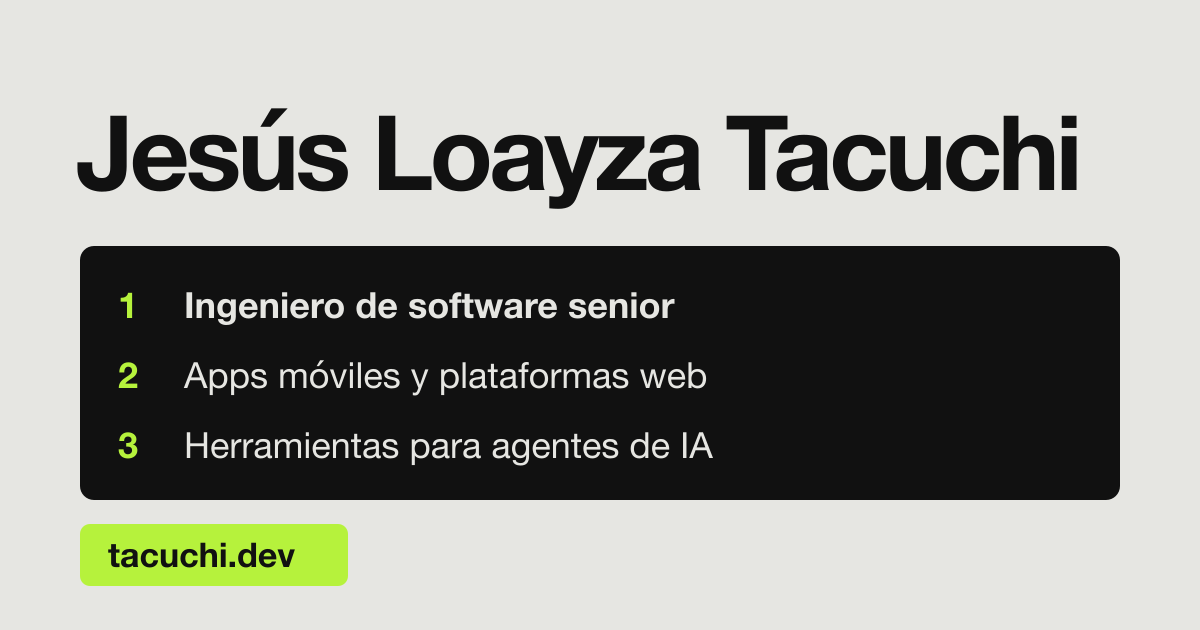
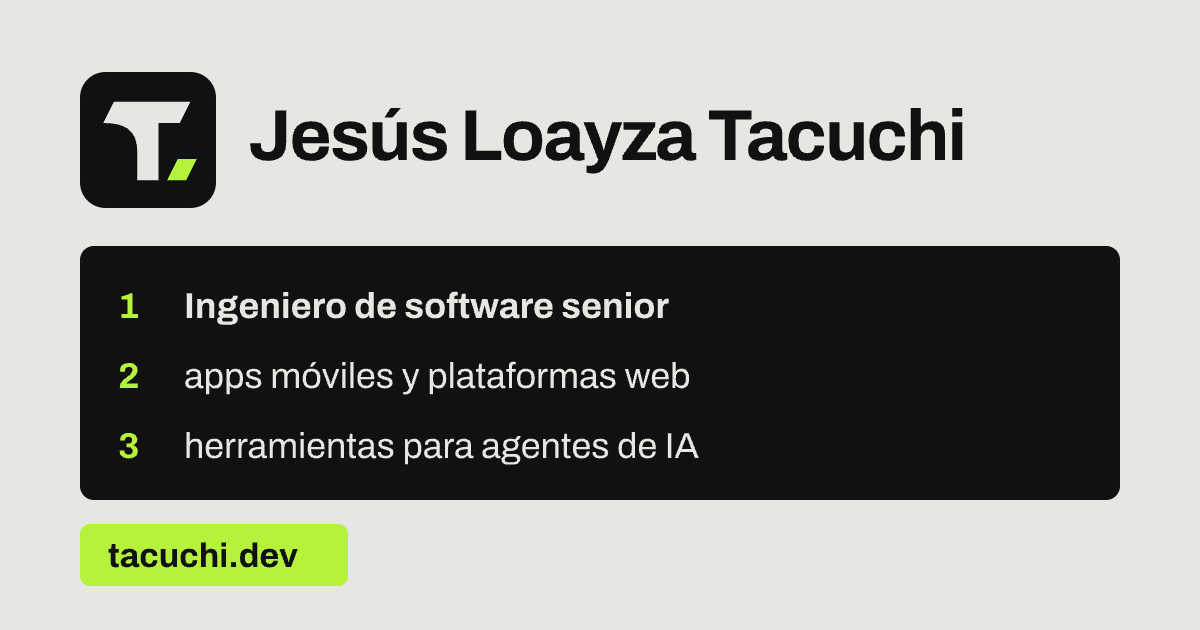
feat: aplicar la marca Tacuchi al sitio

diff --git a/src/styles/global.css b/src/styles/global.css
@@ -204,7 +204,7 @@
       top: 0;
     }
     .strip {
-      grid-template-columns: 17rem 1fr auto;
+      grid-template-columns: 21rem 1fr auto;
       padding-block: 1.5rem 1.125rem;
     }
     .strip-headline,
